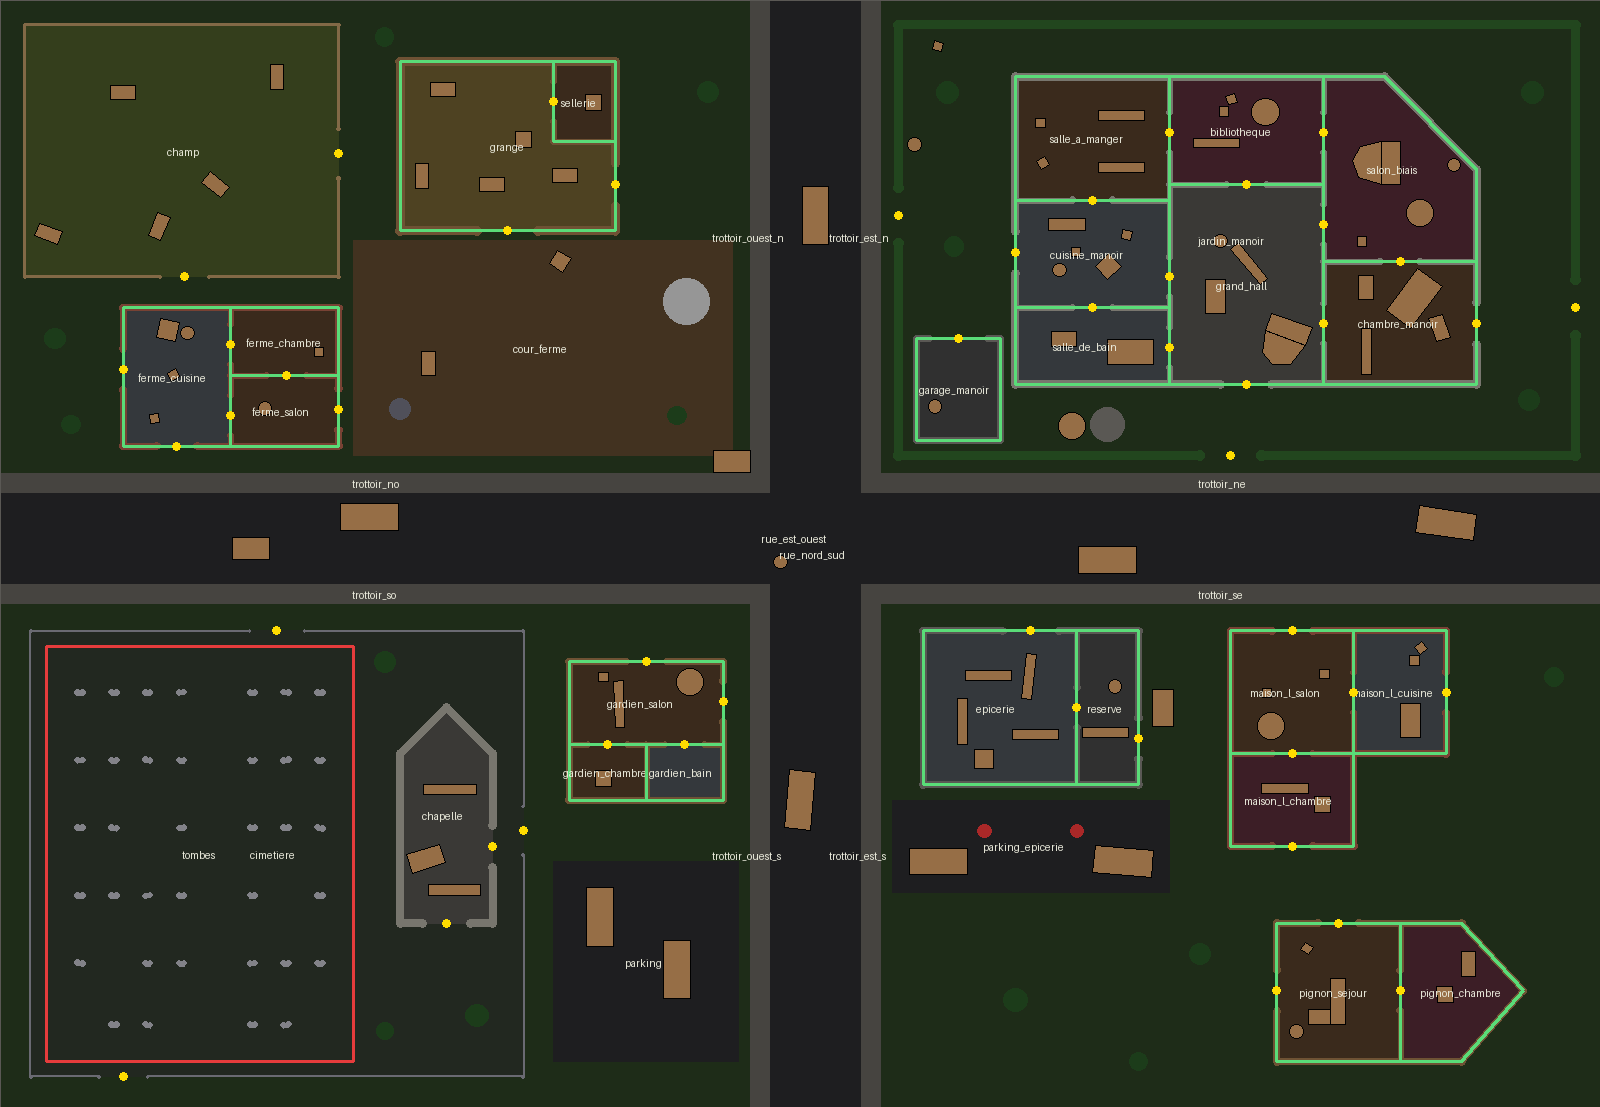
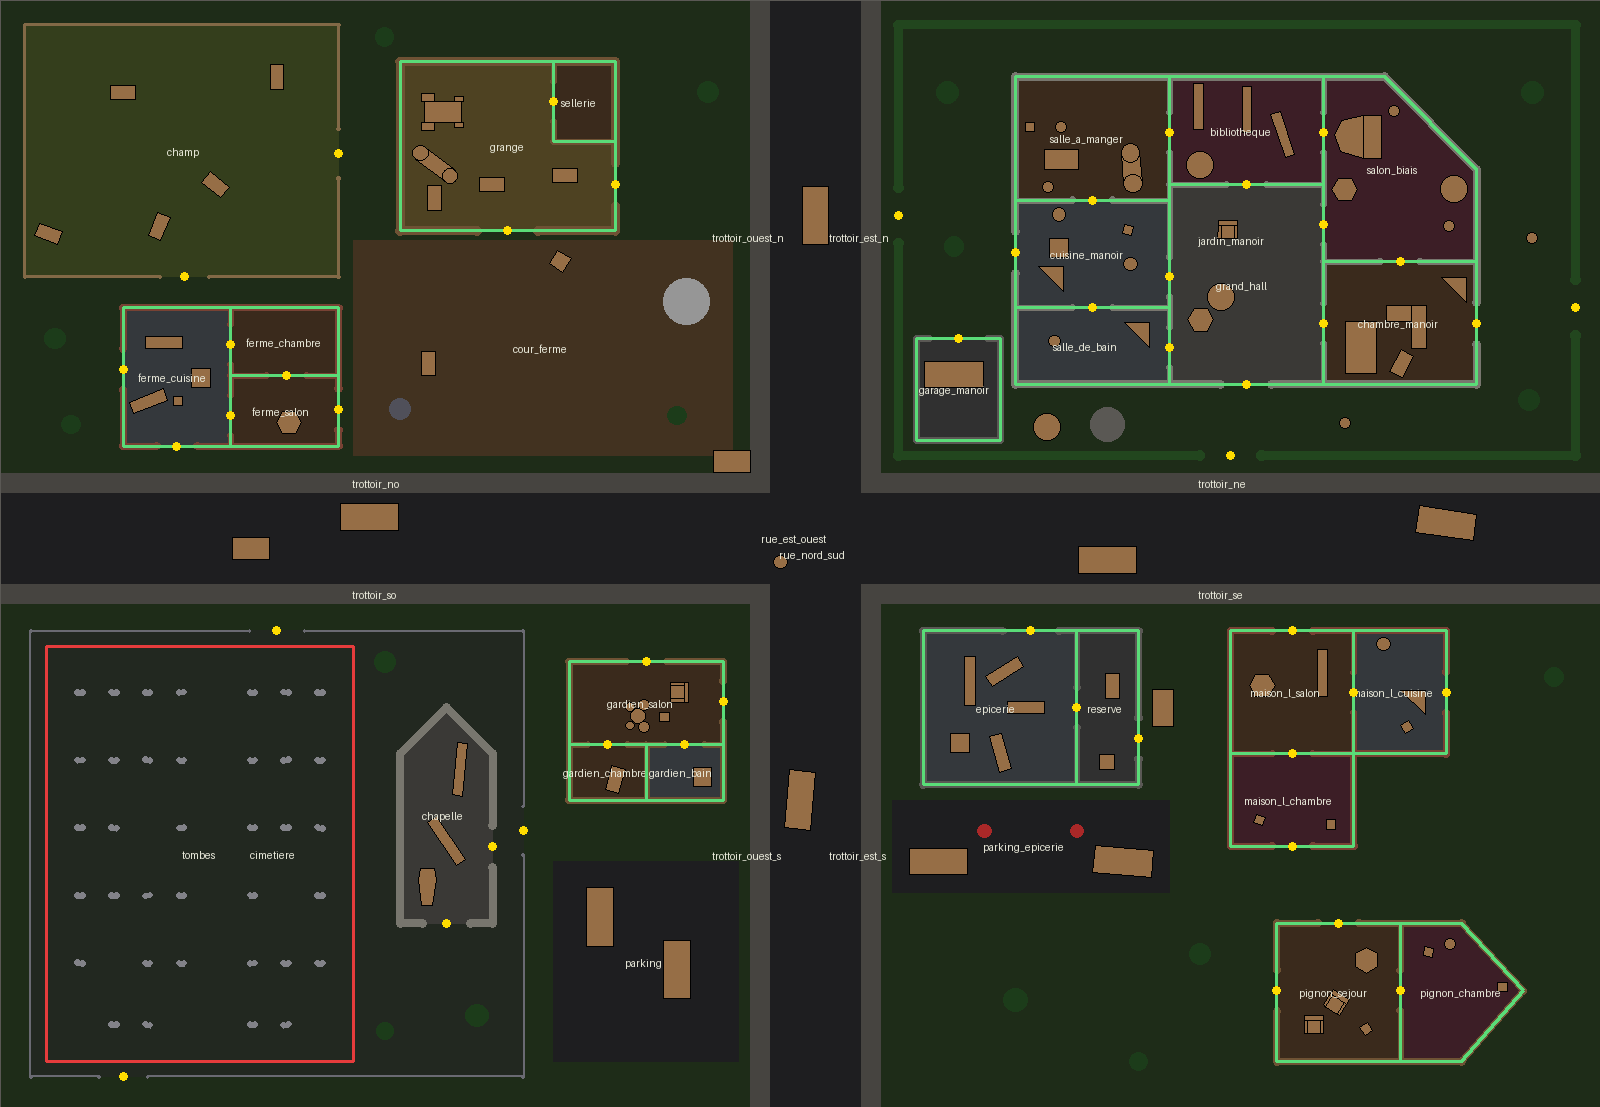
Barricades au centre du jeu : zombies qui poussent 4x moins fort, meubles 2x plus solides, 16 nouveaux meubles
- ZOMBIE_PUSH = 0.25 : un coup de zombie pousse 4x moins qu'un coup d'humain -> une barricade doit être
  cassée, plus déblayée ; les humains gardent toute leur force pour construire
- durabilité doublée (chaise 40 ... piano 100 coups de zombie, jusqu'à 150 : tracteur, coffre-fort)
- 16 nouveaux meubles aux formes variées : fauteuil (U), canapé en U, bureau en L, cercueil (hexagone),
  table hexagonale, meuble d'angle (triangle), table ovale, tas de bûches, batterie (5 cercles), tracteur
  (5 blocs), lave-linge, meuble TV, plante en pot, autel, étagère métallique, coffre-fort ; répartis
  dans les thèmes (chapelle : cercueils + autel, grange : tracteur + bûches, réserve : coffre...)
- client : couleurs et détails de chaque nouveau meuble (hublot, croix, roues, cadran, cernes...)
- tests : zombies qui poussent moins, durabilité, chaque type = un corps unique de la bonne masse

diff --git a/client/src/furniture.js b/client/src/furniture.js
@@ -22,6 +22,22 @@ export const PROP_STYLE = {
   pew: [0x4a3220, 0x6a4a2e],
   dumpster: [0x1e3a24, 0x2c5434],
   car: [0x1a1a1e, 0x5a1e1e],
+  armchair: [0x5a2e3a, 0x7a4050],
+  coffin: [0x2a1a10, 0x4a2e1c],
+  oval_table: [0x55402b, 0x75573a],
+  hex_table: [0x4a3a26, 0x6a5236],
+  corner_cabinet: [0x3a2a1e, 0x5a4030],
+  desk_l: [0x4a3826, 0x6a5236],
+  sofa_u: [0x2e3a5a, 0x40507a],
+  washing_machine: [0xa0a5a0, 0xd0d5cc],
+  tv_stand: [0x222224, 0x34343a],
+  plant_pot: [0x6a3a20, 0x2a5a24],
+  drum_kit: [0x6a1616, 0xc8c0b0],
+  log_pile: [0x5a3a1e, 0x7a5230],
+  tractor: [0x1e4a1e, 0x2e6a2a],
+  altar: [0x6a6862, 0x8a8880],
+  metal_shelf: [0x4a4e52, 0x6a7076],
+  safe: [0x2a2e33, 0x3e444a],
 };
 const DEFAULT_STYLE = [0x4a4a4a, 0x6a6a6a];
 export const styleOf = (kind) => PROP_STYLE[kind] ?? DEFAULT_STYLE;
@@ -187,6 +203,51 @@ function details(g, kind, parts, ox, oy) {
     g.fillRect(ox - w * 0.32, oy - h / 2 + 10, w * 0.12, h - 20);
     g.fillStyle(0x6e2626, 1);
     g.fillRect(ox - w * 0.18, oy - h / 2 + 10, w * 0.28, h - 20);
+  } else if (kind === 'washing_machine') {
+    g.lineStyle(3, 0x6a706a, 1);                   // hublot
+    g.strokeCircle(ox, oy + 4, 18);
+    g.fillStyle(0x3a4a55, 1);
+    g.fillCircle(ox, oy + 4, 13);
+  } else if (kind === 'coffin') {
+    g.fillStyle(0x8a7a5a, 1);                      // croix sur le couvercle
+    g.fillRect(ox - 3, oy - 40, 6, 52);
+    g.fillRect(ox - 14, oy - 26, 28, 6);
+  } else if (kind === 'plant_pot') {
+    g.fillStyle(0x3d7a32, 1);                      // feuillage
+    for (let i = 0; i < 5; i++) g.fillCircle(ox + Math.cos(i * 1.26) * 8, oy + Math.sin(i * 1.26) * 8, 7);
+  } else if (kind === 'tv_stand') {
+    const [, w] = p0;
+    g.fillStyle(0x0a0a0c, 1);                      // écran posé dessus
+    g.fillRect(ox - w * 0.3, oy - 5, w * 0.6, 8);
+  } else if (kind === 'safe') {
+    g.lineStyle(3, 0x8a8f96, 1);                   // cadran
+    g.strokeCircle(ox, oy, 11);
+    g.fillStyle(0x8a8f96, 1);
+    g.fillRect(ox + 14, oy - 8, 4, 16);
+  } else if (kind === 'tractor') {
+    g.fillStyle(0x111111, 1);                      // roues + capot jaune
+    for (const p of parts.slice(1)) g.fillRect(ox + p[3] - p[1] / 2 + 2, oy + p[4] - p[2] / 2 + 2, p[1] - 4, p[2] - 4);
+    g.fillStyle(0xb39a20, 1);
+    g.fillRect(ox + 40, oy - 20, 26, 40);
+  } else if (kind === 'metal_shelf') {
+    const [, w, h] = p0;
+    g.lineStyle(2, 0x2a2e32, 1);
+    for (let x = -w / 2 + 40; x < w / 2; x += 40) g.lineBetween(ox + x, oy - h / 2 + 3, ox + x, oy + h / 2 - 3);
+  } else if (kind === 'log_pile') {
+    g.lineStyle(2, 0x3a2410, 1);                   // cernes au bout des bûches
+    for (const p of parts.slice(1)) g.strokeCircle(ox + p[2], oy + p[3], p[1] * 0.55);
+    g.lineBetween(ox - 60, oy - 8, ox + 60, oy - 8);
+    g.lineBetween(ox - 60, oy + 8, ox + 60, oy + 8);
+  } else if (kind === 'altar') {
+    const [, w, h] = p0;
+    g.fillStyle(0x6a1a1a, 1);                      // nappe rouge
+    g.fillRect(ox - w / 2 + 10, oy - h / 2 + 6, w - 20, 12);
+  } else if (kind === 'drum_kit') {
+    g.lineStyle(2, 0x6a1616, 1);
+    for (const p of parts) g.strokeCircle(ox + p[2], oy + p[3], p[1] * 0.75);
+  } else if (kind === 'armchair' || kind === 'sofa_u') {
+    g.fillStyle(side, 1);                          // coussins séparés
+    g.fillRect(ox - 2, oy - 6, 4, 26);
   } else if (kind === 'piano') {
     const [, w, h, dx, dy] = p0;                   // clavier : bande blanche + touches noires côté avant
     const x0 = ox + dx - w / 2 + 6;

diff --git a/server/app/game.py b/server/app/game.py
@@ -9,8 +9,9 @@ Règles
 - Un zombie qui touche un humain l'infecte. Les humains gagnent si le timer
   arrive à zéro, les zombies si plus aucun humain ne reste.
 - Tout le monde peut *frapper* (les objets glissent, les joueurs reculent).
-  Les coups de ZOMBIE abîment les meubles (20 à 50 coups) ; à 0 PV le meuble casse (débloque une barricade)
-  et revient à la manche suivante. Les humains et les balles poussent sans abîmer.
+  Les coups de ZOMBIE abîment les meubles (30 à 150 coups) mais les poussent 4x moins fort qu'un humain :
+  une barricade se casse, elle ne se déblaie pas. À 0 PV le meuble casse et revient à la manche suivante.
+  Les humains et les balles poussent sans abîmer.
 - Les humains ont un pistolet : un tir pousse les objets et ralentit les zombies. Des armes (MP9, fusil à
   pompe) traînent au sol et se ramassent en marchant dessus. Les tirs sont imprécis (dispersion aléatoire qui
   augmente quand on enchaîne) et perdent en efficacité avec la distance.
@@ -73,6 +74,7 @@ BOT_REPLAN = (0.1, 0.2)            # s entre deux choix de cap d'un bot (aléato
 # --- Frappe (tout le monde) ------------------------------------------------
 HIT_COOLDOWN = 0.45
 HIT_IMPULSE = 3500.0               # chaise (6) -> ~580 px/s ; armoire (60) -> ~58 px/s
+ZOMBIE_PUSH = 0.25                 # un zombie pousse 4x moins fort : une barricade se CASSE, elle ne se déblaie pas
 HIT_REACH = 62.0
 HIT_RADIUS = 34.0
 KNOCKBACK = 260.0
@@ -171,26 +173,46 @@ class PropKind:
 
 
 PROP_KINDS: dict[str, PropKind] = {
-    "chair": PropKind((("box", 30, 30, 0, 0),), 6, 20),
-    "barrel": PropKind((("circle", 22, 0, 0),), 14, 25),
-    "crate": PropKind((("box", 52, 52, 0, 0),), 12, 25),
-    "table": PropKind((("box", 110, 64, 0, 0),), 25, 30),
-    "round_table": PropKind((("circle", 44, 0, 0),), 25, 30),
-    "bookshelf": PropKind((("box", 150, 32, 0, 0),), 35, 35),
-    "sofa_l": PropKind((("box", 150, 50, 0, -30), ("box", 50, 70, 50, 30)), 45, 40),       # canapé d'angle
-    "bed": PropKind((("box", 100, 170, 0, 0),), 50, 45),
-    "wardrobe": PropKind((("box", 80, 46, 0, 0),), 60, 50),
-    "fridge": PropKind((("box", 62, 62, 0, 0),), 55, 50),
+    "chair": PropKind((("box", 30, 30, 0, 0),), 6, 40),
+    "barrel": PropKind((("circle", 22, 0, 0),), 14, 50),
+    "crate": PropKind((("box", 52, 52, 0, 0),), 12, 50),
+    "table": PropKind((("box", 110, 64, 0, 0),), 25, 60),
+    "round_table": PropKind((("circle", 44, 0, 0),), 25, 60),
+    "bookshelf": PropKind((("box", 150, 32, 0, 0),), 35, 70),
+    "sofa_l": PropKind((("box", 150, 50, 0, -30), ("box", 50, 70, 50, 30)), 45, 80),       # canapé d'angle
+    "bed": PropKind((("box", 100, 170, 0, 0),), 50, 90),
+    "wardrobe": PropKind((("box", 80, 46, 0, 0),), 60, 100),
+    "fridge": PropKind((("box", 62, 62, 0, 0),), 55, 100),
     "piano": PropKind((("box", 140, 60, 0, -45),                                           # piano à queue :
                        ("poly", ((-70, -15), (70, -15), (45, 60), (-10, 80), (-55, 55)))),   # clavier + caisse
-                      70, 50),
-    "stove": PropKind((("box", 60, 60, 0, 0),), 45, 40),
-    "counter": PropKind((("box", 120, 40, 0, 0),), 40, 40),
-    "bathtub": PropKind((("box", 80, 150, 0, 0),), 50, 40),
-    "hay_bale": PropKind((("box", 80, 45, 0, 0),), 20, 25),
-    "pew": PropKind((("box", 170, 34, 0, 0),), 35, 35),                                    # banc d'église
-    "dumpster": PropKind((("box", 120, 70, 0, 0),), 90, 50),
-    "car": PropKind((("box", 190, 86, 0, 0),), 150, 50),
+                      70, 100),
+    "stove": PropKind((("box", 60, 60, 0, 0),), 45, 80),
+    "counter": PropKind((("box", 120, 40, 0, 0),), 40, 80),
+    "bathtub": PropKind((("box", 80, 150, 0, 0),), 50, 80),
+    "hay_bale": PropKind((("box", 80, 45, 0, 0),), 20, 50),
+    "pew": PropKind((("box", 170, 34, 0, 0),), 35, 70),                                    # banc d'église
+    "dumpster": PropKind((("box", 120, 70, 0, 0),), 90, 100),
+    "car": PropKind((("box", 190, 86, 0, 0),), 150, 120),
+    # --- formes variées
+    "armchair": PropKind((("box", 50, 44, 0, 6), ("box", 64, 16, 0, -24),                  # fauteuil : assise,
+                          ("box", 10, 44, -27, 6), ("box", 10, 44, 27, 6)), 25, 60),       # dossier, accoudoirs
+    "coffin": PropKind((("poly", ((-22, -60), (22, -60), (30, -25), (18, 60), (-18, 60), (-30, -25))),), 30, 70),
+    "oval_table": PropKind((("box", 100, 60, 0, 0), ("circle", 30, -50, 0), ("circle", 30, 50, 0)), 30, 70),
+    "hex_table": PropKind((("poly", ((42, 0), (21, 36), (-21, 36), (-42, 0), (-21, -36), (21, -36))),), 25, 60),
+    "corner_cabinet": PropKind((("poly", ((-40, -40), (40, -40), (-40, 40))),), 40, 80),   # meuble d'angle
+    "desk_l": PropKind((("box", 140, 50, 0, -25), ("box", 50, 80, -45, 40)), 45, 90),      # bureau d'angle
+    "sofa_u": PropKind((("box", 160, 40, 0, -40), ("box", 40, 80, -60, 20), ("box", 40, 80, 60, 20)), 60, 100),
+    "washing_machine": PropKind((("box", 60, 60, 0, 0),), 60, 90),
+    "tv_stand": PropKind((("box", 150, 36, 0, 0),), 30, 60),
+    "plant_pot": PropKind((("circle", 18, 0, 0),), 10, 30),
+    "drum_kit": PropKind((("circle", 24, 0, 0), ("circle", 18, -36, -18), ("circle", 18, 36, -18),
+                          ("circle", 14, -30, 26), ("circle", 14, 30, 26)), 25, 60),       # batterie
+    "log_pile": PropKind((("box", 120, 50, 0, 0), ("circle", 25, -60, 0), ("circle", 25, 60, 0)), 50, 80),
+    "tractor": PropKind((("box", 120, 70, 10, 0), ("box", 44, 26, -40, -48), ("box", 44, 26, -40, 48),
+                         ("box", 28, 16, 60, -42), ("box", 28, 16, 60, 42)), 220, 150),
+    "altar": PropKind((("box", 150, 60, 0, 0),), 120, 140),
+    "metal_shelf": PropKind((("box", 160, 36, 0, 0),), 45, 90),
+    "safe": PropKind((("box", 50, 50, 0, 0),), 150, 150),                                  # coffre-fort
 }
 ROOM_PROPS = (["chair"] * 3 + ["barrel"] * 2
               + ["crate", "table", "round_table", "bookshelf", "sofa_l", "bed", "wardrobe", "fridge", "piano"])
@@ -200,21 +222,25 @@ ROOM_PROPS_AREA = 800 * 800        # ROOM_PROPS meuble une pièce de cette surfa
 # (meubles pour 100 000 px², soit une pièce d'environ 316 x 316). « mixed » = ancien mobilier générique.
 THEMES: dict[str, tuple[list[str], float]] = {
     "mixed": (ROOM_PROPS, len(ROOM_PROPS) / ROOM_PROPS_AREA * 1e5),
-    "living": (["sofa_l", "round_table", "bookshelf", "chair", "chair", "piano", "table", "barrel"], 2.0),
-    "dining": (["table", "chair", "chair", "chair", "chair", "bookshelf", "wardrobe"], 2.2),
-    "bedroom": (["bed", "wardrobe", "chair", "bookshelf", "crate"], 2.0),
-    "kitchen": (["fridge", "stove", "counter", "counter", "table", "chair", "chair", "barrel"], 2.6),
-    "bathroom": (["bathtub", "crate", "wardrobe"], 2.0),
-    "library": (["bookshelf", "bookshelf", "bookshelf", "round_table", "chair", "piano"], 2.2),
-    "hall": (["chair", "bookshelf", "table", "round_table", "piano"], 0.9),
-    "office": (["table", "chair", "chair", "bookshelf", "wardrobe"], 2.0),
-    "shop": (["counter", "counter", "bookshelf", "bookshelf", "bookshelf", "crate", "fridge"], 2.2),
-    "storage": (["crate", "crate", "barrel", "barrel", "bookshelf", "wardrobe"], 2.6),
-    "garage": (["car", "crate", "barrel", "barrel", "counter"], 1.2),
-    "barn": (["hay_bale", "hay_bale", "hay_bale", "hay_bale", "crate", "crate", "barrel"], 1.6),
-    "chapel": (["pew", "pew", "pew", "pew", "table"], 1.8),
-    "farmyard": (["hay_bale", "hay_bale", "barrel", "crate"], 0.25),
-    "garden": (["round_table", "chair", "barrel"], 0.12),
+    "living": (["sofa_l", "sofa_u", "armchair", "armchair", "round_table", "hex_table", "bookshelf", "tv_stand",
+                "chair", "piano", "plant_pot", "drum_kit"], 2.0),
+    "dining": (["table", "oval_table", "chair", "chair", "chair", "chair", "corner_cabinet", "bookshelf",
+                "wardrobe", "plant_pot"], 2.2),
+    "bedroom": (["bed", "wardrobe", "armchair", "corner_cabinet", "desk_l", "bookshelf", "chair", "plant_pot"], 2.0),
+    "kitchen": (["fridge", "stove", "counter", "counter", "table", "chair", "chair", "corner_cabinet",
+                 "washing_machine", "barrel"], 2.6),
+    "bathroom": (["bathtub", "washing_machine", "corner_cabinet", "plant_pot", "crate"], 2.0),
+    "library": (["bookshelf", "bookshelf", "bookshelf", "desk_l", "armchair", "round_table", "corner_cabinet",
+                 "piano"], 2.2),
+    "hall": (["armchair", "bookshelf", "table", "hex_table", "round_table", "plant_pot", "piano"], 0.9),
+    "office": (["desk_l", "table", "chair", "chair", "bookshelf", "metal_shelf", "safe", "plant_pot"], 2.0),
+    "shop": (["counter", "counter", "metal_shelf", "metal_shelf", "bookshelf", "crate", "fridge", "safe"], 2.2),
+    "storage": (["crate", "crate", "barrel", "metal_shelf", "metal_shelf", "safe", "wardrobe", "log_pile"], 2.6),
+    "garage": (["car", "metal_shelf", "crate", "barrel", "washing_machine", "drum_kit", "counter"], 1.2),
+    "barn": (["hay_bale", "hay_bale", "hay_bale", "log_pile", "tractor", "crate", "barrel"], 1.6),
+    "chapel": (["pew", "pew", "pew", "pew", "coffin", "coffin", "altar"], 1.8),
+    "farmyard": (["hay_bale", "hay_bale", "log_pile", "barrel", "crate", "tractor"], 0.25),
+    "garden": (["round_table", "chair", "plant_pot", "plant_pot", "barrel"], 0.12),
     "street": (["dumpster", "barrel", "crate"], 0.06),
 }
 DOOR_CLEARANCE = 110.0             # aucun meuble posé à moins de ça d'une porte au début d'une manche
@@ -807,7 +833,8 @@ class World:
                 touched += 1
                 if kind == "prop":
                     pr = self.props[eid]
-                    pr.body.apply_impulse_at_world_point((ax * HIT_IMPULSE * MASS_SCALE, ay * HIT_IMPULSE * MASS_SCALE), info.point)
+                    imp = HIT_IMPULSE * MASS_SCALE * (ZOMBIE_PUSH if p.role == ZOMBIE else 1.0)
+                    pr.body.apply_impulse_at_world_point((ax * imp, ay * imp), info.point)
                     if p.role == ZOMBIE:       # seuls les zombies abîment les barricades
                         self._damage_prop(pr)
                 elif eid in self.players:

diff --git a/server/tests/test_game.py b/server/tests/test_game.py
@@ -238,10 +238,36 @@ def test_humans_push_props_but_never_damage_them():
     assert pr.hp == pr.max_hp and pr.body.position.x > 400
 
 
-def test_props_take_20_to_50_zombie_hits_heavier_ones_more():
+def test_props_are_durable_heavier_ones_more():
     hps = {k: v.hp for k, v in PROP_KINDS.items()}
-    assert all(20 <= hp <= 50 for hp in hps.values())
-    assert hps["piano"] > hps["table"] > hps["chair"]
+    assert all(30 <= hp <= 150 for hp in hps.values())
+    assert hps["piano"] > hps["table"] > hps["chair"] and hps["safe"] > hps["piano"]
+
+
+def test_zombies_push_furniture_much_less_than_humans():
+    """Une barricade doit se CASSER, pas se déblayer : le même coup pousse 4x moins venant d'un zombie."""
+    moved = {}
+    for role in (HUMAN, ZOMBIE):
+        w = empty_world()
+        pr = w._add_prop("table", 400, 400, 0)
+        p = w.add_player("A")
+        w._set_role(p, role)
+        w._teleport(p, (320, 400))
+        p.aim = 0
+        assert w.hit(p)
+        run(w, 2)
+        moved[role] = pr.body.position.x - 400
+    assert moved[ZOMBIE] < moved[HUMAN] / 3
+
+
+@pytest.mark.parametrize("kind", sorted(PROP_KINDS))
+def test_every_furniture_kind_builds_as_one_solid_body(kind):
+    """Formes composées (U, L, batterie, tracteur...) : un seul corps, masse = masse nominale."""
+    w = empty_world()
+    pr = w._add_prop(kind, 600, 600, 0.3)
+    assert pr.shapes and all(sh.body is pr.body for sh in pr.shapes)
+    assert abs(pr.body.mass - PROP_KINDS[kind].mass * 20) < 1e-6
+    assert w.static_info()["kinds"][kind]
 
 
 def test_multi_part_prop_is_one_body_and_takes_one_hit_per_blow():

diff --git a/CLAUDE.md b/CLAUDE.md
@@ -10,9 +10,10 @@ jeu (tick, interpolation, autorité serveur…) quand elles apparaissent, et ava
 ## Le jeu
 - Salon de 24 joueurs max, manche de 2 min 30 (réglable). Un patient zéro tiré au hasard, figé 30 s au début.
 - Un zombie qui touche un humain l'infecte. Humains : survivre jusqu'au chrono. Zombies : infecter tout le monde.
-- Cœur du jeu : ~75-90 meubles physiques de formes variées (cercles, polygones, formes composées : piano à queue,
-  canapé d'angle…, catalogue PROP_KINDS dans game.py) qu'on déplace en les FRAPPANT pour barricader les portes.
-  Seuls les coups de ZOMBIE les abîment (20 à 50 coups) ; cassés, ils débloquent les situations figées.
+- Cœur du jeu : ~90 meubles physiques de 34 types aux formes variées (cercles, polygones, formes composées : piano à
+  queue, canapé en U, bureau en L, batterie, tracteur… ; catalogue PROP_KINDS dans game.py) qu'on déplace en les
+  FRAPPANT pour barricader les portes. Seuls les coups de ZOMBIE les abîment (30 à 150 coups), et un zombie pousse
+  4x moins fort qu'un humain (ZOMBIE_PUSH) : une barricade se casse, elle ne se déblaie pas.
 - Humains : pistolet (6 balles) ; MP9 et fusil à pompe à ramasser au sol (8 par manche). Tirs imprécis
   (dispersion + « spray » qui grandit en rafale), dégâts réduits avec la distance. Pas de tir ami.
 - Zombies : 300 PV (30 balles), abattus ils réapparaissent 5 s après dans leur salle. Dash au clic droit (10 s).
@@ -69,7 +70,7 @@ Réglages serveur par variables d'environnement : `ROUND_SECONDS`, `FREEZE_SECON
 - Ne mets pas de calcul de physique côté client : le client affiche, le serveur décide.
 
 ## État actuel
-- Serveur : 70 tests verts ; entrepôt, 24 joueurs ≈ 1,6 ms/tick (pire tick ~15 ms) ; ~30 Ko/s par client.
+- Serveur : 105 tests verts ; entrepôt, 24 joueurs ≈ 1,6 ms/tick (pire tick ~15 ms) ; ~30 Ko/s par client.
 - Client : rendu vérifié dans le navigateur (capture) ; sang/débris « cuits » dans une RenderTexture.
   Musique + sons synthétisés (Web Audio). En dev, `window.__barricade` = { game, net, sound }.
 - En ligne : https://barricade.212.227.181.202.sslip.io (Coolify, `docker-compose.coolify.yml`, 24 bots).

diff --git a/server/app/map_data/README.md b/server/app/map_data/README.md
@@ -48,7 +48,7 @@ Coordonnées en pixels du monde, origine en haut à gauche, x vers la droite, y 
 | `spawn` | `human` (apparition des humains, au moins une zone), `zombie` (patient zéro et réapparitions, au moins une) |
 | `style` (murs) | brick, wood, stone, concrete, fence, iron, hedge |
 | `kind` (obstacles) | tree, rock, well, silo, pillar, pump (cercles de rayon `r`), grave (bloc `size`, `angle`) |
-| `kind` (meubles) | chair, barrel, crate, table, round_table, bookshelf, sofa_l, bed, wardrobe, fridge, piano, stove, counter, bathtub, hay_bale, pew, dumpster, car |
+| `kind` (meubles) | chair, barrel, crate, table, round_table, bookshelf, sofa_l, bed, wardrobe, fridge, piano, stove, counter, bathtub, hay_bale, pew, dumpster, car, armchair, coffin, oval_table, hex_table, corner_cabinet, desk_l, sofa_u, washing_machine, tv_stand, plant_pot, drum_kit, log_pile, tractor, altar, metal_shelf, safe |
 
 Les thèmes et les meubles sont définis dans `app/game.py` (`THEMES`, `PROP_KINDS`).
 
